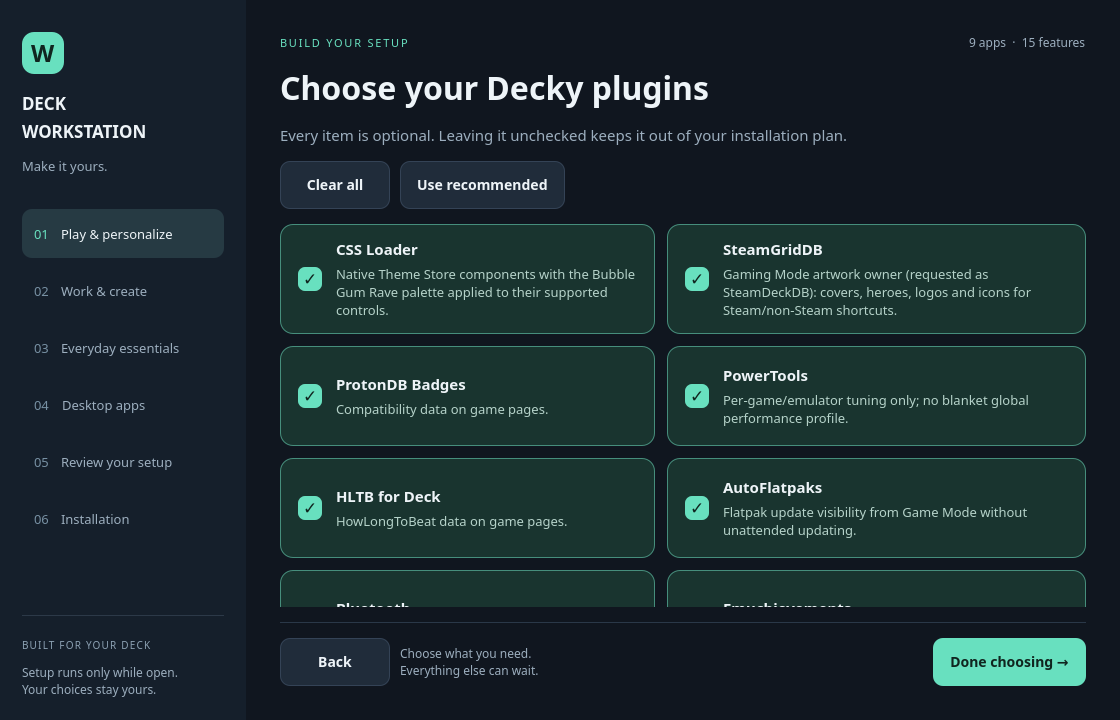
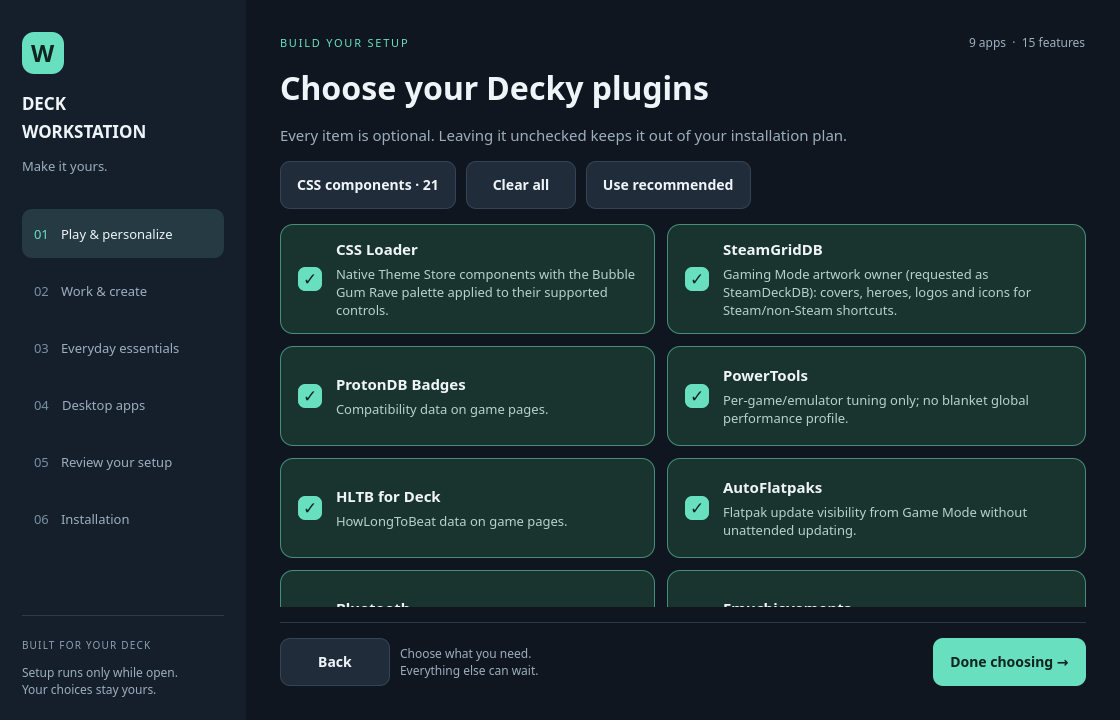
Make CSS Loader theme components individually optional

Changed region(s): [[0.25, 0.2139, 0.6875, 0.3056]]

diff --git a/lib/deckctl/ui/Setup.qml b/lib/deckctl/ui/Setup.qml
@@ -29,6 +29,7 @@ ApplicationWindow {
     property string detailPage: ""
     property var selectedLaunchers: []
     property var selectedPlugins: []
+    property var selectedCss: []
     property var chosen: []
     property var selectedApps: []
     property var progress: ({running: false, modules: [], operation: null})
@@ -65,16 +66,18 @@ ApplicationWindow {
         xhr.send(payload === null ? null : JSON.stringify(payload))
     }
     function toggle(key, isApp) {
-        var values = (detailPage === "launchers" ? selectedLaunchers : detailPage === "plugins" ? selectedPlugins : isApp ? selectedApps : chosen).slice()
+        var values = (detailPage === "css" ? selectedCss : detailPage === "launchers" ? selectedLaunchers : detailPage === "plugins" ? selectedPlugins : isApp ? selectedApps : chosen).slice()
         var index = values.indexOf(key)
         if (index < 0) values.push(key); else values.splice(index, 1)
-        if (detailPage === "launchers") selectedLaunchers = values
+        if (detailPage === "css") selectedCss = values
+        else if (detailPage === "launchers") selectedLaunchers = values
         else if (detailPage === "plugins") selectedPlugins = values
         else if (isApp) selectedApps = values; else chosen = values
         saved = false; dirty = true; notice = ""; problem = ""
     }
     function detailPreset(defaults) {
-        if (detailPage === "plugins") selectedPlugins = defaults ? data.defaultPlugins.slice() : []
+        if (detailPage === "css") selectedCss = defaults ? data.defaultCss.slice() : []
+        else if (detailPage === "plugins") selectedPlugins = defaults ? data.defaultPlugins.slice() : []
         else selectedLaunchers = defaults ? data.launchers.map(function(x) { return x.id }) : []
         saved = false; dirty = true
     }
@@ -103,11 +106,12 @@ ApplicationWindow {
         selectedApps = full ? data.apps.map(function(app) { return app.id }) : []
         selectedLaunchers = full ? data.launchers.map(function(x) { return x.id }) : []
         selectedPlugins = full ? data.defaultPlugins.slice() : []
+        selectedCss = full ? data.defaultCss.slice() : []
         saved = false; dirty = true; notice = full ? "Full workstation selected. Make it your own below." : "Starting small. Add only what you need."
     }
     function savePlan(install) {
         busy = true; problem = ""
-        request("save", {modules: chosen, apps: selectedApps, launchers: selectedLaunchers, plugins: selectedPlugins}, function(result) {
+        request("save", {modules: chosen, apps: selectedApps, launchers: selectedLaunchers, plugins: selectedPlugins, css: selectedCss}, function(result) {
             saved = true; dirty = false; busy = false; notice = "Your setup plan is saved."
             if (install) startOperation("install")
             else if (data.planOnly) window.close()
@@ -141,7 +145,7 @@ ApplicationWindow {
         for (var i=0; i<args.length; i++) if (args[i].indexOf("http://127.0.0.1:") === 0) endpoint = args[i]
         if (!endpoint) { problem = "Open this app with deckctl setup customize."; return }
         request("catalog", null, function(result) {
-            data = result; selectedLaunchers = result.selectedLaunchers.slice(); selectedPlugins = result.selectedPlugins.slice(); chosen = result.modules.slice(); selectedApps = result.selectedApps.slice(); loaded = true
+            data = result; selectedCss = result.selectedCss.slice(); selectedLaunchers = result.selectedLaunchers.slice(); selectedPlugins = result.selectedPlugins.slice(); chosen = result.modules.slice(); selectedApps = result.selectedApps.slice(); loaded = true
         })
     }
     Timer {
@@ -256,7 +260,7 @@ ApplicationWindow {
                 Item { Layout.fillWidth: true }
                 TextLabel { text: window.selectedApps.length + " apps  ·  " + Math.max(0,window.allModules().length-1) + " features"; color: window.muted; font.pixelSize: 12 }
             }
-            TextLabel { text: window.detailPage === "launchers" ? "Choose your launchers" : window.detailPage === "plugins" ? "Choose your Decky plugins" : window.stageNames[window.stage]; font.pixelSize: window.width < 950 ? 27 : 32; font.weight: Font.Bold; Layout.fillWidth: true }
+            TextLabel { text: window.detailPage === "css" ? "Choose your CSS components" : window.detailPage === "launchers" ? "Choose your launchers" : window.detailPage === "plugins" ? "Choose your Decky plugins" : window.stageNames[window.stage]; font.pixelSize: window.width < 950 ? 27 : 32; font.weight: Font.Bold; Layout.fillWidth: true }
             TextLabel { text: window.detailPage ? "Every item is optional. Leaving it unchecked keeps it out of your installation plan." : window.stageDescriptions[window.stage]; color: window.muted; font.pixelSize: 15; Layout.fillWidth: true }
             RowLayout {
                 visible: window.stage < 4 && !window.detailPage; spacing: 10; Layout.bottomMargin: 1
@@ -269,8 +273,9 @@ ApplicationWindow {
                 visible: window.stage === 0
                 Action { visible: !window.detailPage && window.chosen.indexOf("gaming") >= 0; text: "Choose launchers · " + window.selectedLaunchers.length; onClicked: window.detailPage = "launchers" }
                 Action { visible: !window.detailPage && window.chosen.indexOf("decky") >= 0; text: "Choose plugins · " + window.selectedPlugins.length; onClicked: window.detailPage = "plugins" }
+                Action { visible: window.detailPage === "plugins" && window.selectedPlugins.indexOf("SDH-CssLoader") >= 0; text: "CSS components · " + window.selectedCss.length; onClicked: window.detailPage = "css" }
                 Action { visible: !!window.detailPage; text: "Clear all"; onClicked: window.detailPreset(false) }
-                Action { visible: !!window.detailPage; text: window.detailPage === "plugins" ? "Use recommended" : "Select all"; onClicked: window.detailPreset(true) }
+                Action { visible: !!window.detailPage; text: window.detailPage !== "launchers" ? "Use recommended" : "Select all"; onClicked: window.detailPreset(true) }
             }
             Rectangle {
                 visible: !!window.problem || !!window.notice
@@ -289,12 +294,12 @@ ApplicationWindow {
                         visible: window.stage < 4
                         Layout.fillWidth: true; columns: window.width < 1000 ? 1 : 2; columnSpacing: 12; rowSpacing: 12
                         Repeater {
-                            model: window.detailPage === "launchers" ? window.data.launchers : window.detailPage === "plugins" ? window.data.plugins : window.stage < 3 ? (window.data.groups[window.stage] || {modules:[]}).modules : (window.stage === 3 ? window.data.apps : [])
+                            model: window.detailPage === "css" ? window.data.css : window.detailPage === "launchers" ? window.data.launchers : window.detailPage === "plugins" ? window.data.plugins : window.stage < 3 ? (window.data.groups[window.stage] || {modules:[]}).modules : (window.stage === 3 ? window.data.apps : [])
                             delegate: ChoiceCard {
                                 required property var modelData
                                 Layout.fillWidth: true
                                 heading: modelData.name; detail: modelData.summary
-                                selected: (window.detailPage === "launchers" ? window.selectedLaunchers : window.detailPage === "plugins" ? window.selectedPlugins : window.stage === 3 ? window.selectedApps : window.chosen).indexOf(modelData.id) >= 0
+                                selected: (window.detailPage === "css" ? window.selectedCss : window.detailPage === "launchers" ? window.selectedLaunchers : window.detailPage === "plugins" ? window.selectedPlugins : window.stage === 3 ? window.selectedApps : window.chosen).indexOf(modelData.id) >= 0
                                 onClicked: window.toggle(modelData.id, window.stage === 3)
                             }
                         }
@@ -331,6 +336,8 @@ ApplicationWindow {
                         TextLabel { visible: window.allModules().indexOf("gaming") >= 0; text: window.selectedNames(window.data.launchers, window.selectedLaunchers); Layout.fillWidth: true }
                         TextLabel { text: "DECKY PLUGINS"; visible: window.allModules().indexOf("decky") >= 0; color: window.muted; font.pixelSize: 11 }
                         TextLabel { visible: window.allModules().indexOf("decky") >= 0; text: window.selectedNames(window.data.plugins, window.selectedPlugins); Layout.fillWidth: true }
+                        TextLabel { visible: window.allModules().indexOf("decky") >= 0 && window.selectedPlugins.indexOf("SDH-CssLoader") >= 0; text: "CSS COMPONENTS"; color: window.muted; font.pixelSize: 11 }
+                        TextLabel { visible: window.allModules().indexOf("decky") >= 0 && window.selectedPlugins.indexOf("SDH-CssLoader") >= 0; text: window.selectedNames(window.data.css, window.selectedCss); Layout.fillWidth: true }
                         TextLabel { text: "Some features download software or models and open their own setup prompts. Account sign-in and device pairing happen afterward. You can skip those stages."; color: window.muted; Layout.fillWidth: true; font.pixelSize: 13; Layout.topMargin: 10 }
                     }
                     ColumnLayout {
@@ -363,7 +370,7 @@ ApplicationWindow {
             Rectangle { Layout.fillWidth: true; height: 1; color: "#2a3848" }
             RowLayout {
                 Layout.fillWidth: true; spacing: 10
-                Action { text: "Back"; visible: !!window.detailPage || (window.stage > 0 && window.stage < 5); enabled: !window.busy; onClicked: {if (window.detailPage) window.detailPage=""; else window.stage--; window.problem=""} }
+                Action { text: "Back"; visible: !!window.detailPage || (window.stage > 0 && window.stage < 5); enabled: !window.busy; onClicked: {if (window.detailPage) window.detailPage=window.detailPage === "css" ? "plugins" : ""; else window.stage--; window.problem=""} }
                 TextLabel { visible: window.stage < 4; text: "Choose what you need.\nEverything else can wait."; font.pixelSize: 12; color: window.muted; Layout.fillWidth: true }
                 Item { visible: window.stage >= 4; Layout.fillWidth: true }
                 Action { text: "Save for later"; visible: window.stage === 4 && !window.data.planOnly; enabled: !window.busy; onClicked: window.savePlan(false) }
@@ -372,7 +379,7 @@ ApplicationWindow {
                     text: window.detailPage ? "Done choosing →" : window.stage < 3 ? "Continue →" : (window.stage === 3 ? "Review setup →" : (window.stage === 4 ? (window.data.planOnly ? "Save & continue" : "Save & install") : "Install / retry"))
                     enabled: window.loaded && !window.busy && !window.progress.running && (window.stage !== 5 || !window.data.planOnly)
                     onClicked: {
-                        if (window.detailPage) window.detailPage = ""
+                        if (window.detailPage) window.detailPage = window.detailPage === "css" ? "plugins" : ""
                         else if (window.stage < 4) { window.stage++; window.notice="" }
                         else if (window.stage === 4) window.savePlan(!window.data.planOnly)
                         else window.startOperation("install")

diff --git a/lib/deckctl/setup_builder.py b/lib/deckctl/setup_builder.py
@@ -5,7 +5,7 @@ import os
 import shutil
 import subprocess
 import sys
-from . import apps, core, gaming_options
+from . import apps, core, gaming_options, css_stack
 
 
 def catalog():
@@ -101,7 +101,8 @@ def plugin_items():
             for key, item in items.items()]
 
 
-def save_plan(modules, selected_apps, launchers=None, plugins=None):
+def save_plan(modules, selected_apps, launchers=None, plugins=None, css=None):
+    if css is not None: css=css_stack.validate_selection(css)
     if launchers is not None: launchers=gaming_options.validate(launchers)
     if plugins is not None:
         known={item['id'] for item in plugin_items()}
@@ -110,6 +111,7 @@ def save_plan(modules, selected_apps, launchers=None, plugins=None):
     files=[core.CONFIG_HOME/'modules.json', core.CONFIG_HOME/'apps.json']
     if launchers is not None: files.append(core.CONFIG_HOME/'gaming-selection.json')
     if plugins is not None: files.append(core._decky_selection_path())
+    if css is not None: files.append(core.CONFIG_HOME/'css-selection.json')
     previous=[p.read_bytes() if p.exists() else None for p in files]
     try:
         save_modules(modules)
@@ -124,6 +126,8 @@ def save_plan(modules, selected_apps, launchers=None, plugins=None):
                          selected_folders=sorted(set(plugins)),
                          selected_plugins=[items.get(x,{}).get('name',x) for x in sorted(set(plugins))])
             core.save_json(core._decky_selection_path(), state)
+        if css is not None:
+            core.save_json(core.CONFIG_HOME/'css-selection.json', {'selected': css})
     except (OSError,ValueError):
         for path,old in zip(files,previous):
             if old is None: path.unlink(missing_ok=True)
@@ -143,16 +147,18 @@ def configure_ui():
         for group in data['groups']:
             roots=_terminal_checklist(group['title'],group['description'],group['modules'],roots)
         selected=_terminal_checklist('Desktop apps','Optional apps; existing installations are kept.',_app_items(),selected)
-        launchers=set(gaming_options.selection()); plugins=set(core._decky_selected_folders())
+        launchers=set(gaming_options.selection()); plugins=set(core._decky_selected_folders()); css=set(css_stack.selection())
         if 'gaming' in roots:
             launchers=_terminal_checklist('Launchers and tools','Choose each item independently.',gaming_options.ITEMS,launchers)
         if 'decky' in roots:
             plugins=_terminal_checklist('Decky plugins','Every plugin is optional.',plugin_items(),plugins)
+        if 'decky' in roots and 'SDH-CssLoader' in plugins:
+            css=_terminal_checklist('CSS Loader components','Every component is optional.',css_stack.selection_items(),css)
         normalized=_app_module_roots(roots,selected)
         print(_summary(normalized,sorted(selected),set(normalized)-roots-{'base'}))
         if input('Save this plan? [y/N] ').strip().lower() not in ('y','yes'):
             return 0
-        save_plan(normalized,selected,launchers,plugins)
+        save_plan(normalized,selected,launchers,plugins,css)
         print('Plan saved. Run deckctl apply, then deckctl setup run.')
         return 0
     except (KeyboardInterrupt,EOFError):

diff --git a/lib/deckctl/css_stack.py b/lib/deckctl/css_stack.py
@@ -32,11 +32,37 @@ class CSSError(RuntimeError):
     pass
 
 
-def _stack():
+def _stack(unfiltered=False):
     data = json.loads(STACK_PATH.read_text())
     if data.get('schema_version') != 3 or not data.get('required'):
         raise CSSError('Invalid CSS stack manifest')
+    if not unfiltered:
+        names = selection()
+        items = data['required'] + data['recommended'] + data.get('optional', [])
+        data['required'] = [item for item in items if item['name'] in names]
+        data['recommended'] = []
     return data
+
+
+def selection():
+    data = _stack(unfiltered=True)
+    state = core.load_json(core.CONFIG_HOME/'css-selection.json', None)
+    defaults = [item['name'] for item in data['required'] + data['recommended']]
+    return validate_selection(state['selected']) if state is not None else defaults
+
+
+def validate_selection(values):
+    data = _stack(unfiltered=True)
+    known = {item['name'] for category in ('required', 'recommended', 'optional') for item in data.get(category, [])}
+    if not isinstance(values, (list, set, tuple)) or any(not isinstance(x,str) or x not in known for x in values):
+        raise ValueError('Invalid CSS Loader component selection')
+    return sorted(set(values))
+
+
+def selection_items():
+    data = _stack(unfiltered=True)
+    return [{'id': item['name'], 'name': item['name'], 'summary': item.get('reason', '')}
+            for category in ('required', 'recommended', 'optional') for item in data.get(category, [])]
 
 
 def _read(path):
@@ -313,13 +339,18 @@ def _migrate_legacy():
 
 
 def _manifest_hash():
-    return hashlib.sha256(STACK_PATH.read_bytes()).hexdigest()
+    raw = STACK_PATH.read_bytes()
+    if (core.CONFIG_HOME/'css-selection.json').exists():
+        raw += json.dumps(sorted(selection())).encode()
+    return hashlib.sha256(raw).hexdigest()
 
 
 def readiness():
     """Read-only, persisted-state verification; never treats a receipt alone as proof."""
     try:
         stack = _stack()
+        if not stack['required'] and not stack['recommended']:
+            return True, 'No CSS components selected; existing themes are unchanged'
         if not core._decky_loader_present():
             return False, 'Decky Loader is missing'
         plugin = core._decky_installed_plugins().get('SDH-CssLoader', {})

diff --git a/tests/contract/test_setup_window.py b/tests/contract/test_setup_window.py
@@ -6,7 +6,7 @@ from pathlib import Path
 from unittest.mock import patch, Mock
 import sys
 sys.path.insert(0, str(Path(__file__).resolve().parents[2]/'lib'))
-from deckctl import core, apps, setup_builder, setup_window, gaming_options, provisioning
+from deckctl import core, apps, setup_builder, setup_window, gaming_options, provisioning, css_stack
 
 
 class SetupWindow(unittest.TestCase):
@@ -70,6 +70,25 @@ class SetupWindow(unittest.TestCase):
             with self.assertRaises(OSError):
                 setup_builder.save_plan(['gaming'], [], ['heroic'], [])
         self.assertEqual(before, {p.name: p.read_bytes() for p in core.CONFIG_HOME.iterdir()})
+
+    def test_css_selection_filters_defaults_and_accepts_optional_components(self):
+        stack=css_stack._stack(unfiltered=True)
+        optional=stack['optional'][0]['name']
+        setup_builder.save_plan(['decky'], [], [], ['SDH-CssLoader'], [optional])
+        effective=css_stack._stack()
+        self.assertEqual([item['name'] for item in effective['required']], [optional])
+        self.assertEqual(effective['recommended'], [])
+        first_hash=css_stack._manifest_hash()
+        setup_builder.save_plan(['decky'], [], [], ['SDH-CssLoader'], [])
+        self.assertNotEqual(first_hash, css_stack._manifest_hash())
+        with patch.object(css_stack, '_backend_session', side_effect=AssertionError('No backend should start')):
+            self.assertTrue(css_stack.readiness()[0])
+            self.assertEqual(css_stack.apply(), 0)
+
+    def test_unknown_css_component_rejected_before_saving(self):
+        with self.assertRaises(ValueError):
+            setup_builder.save_plan(['decky'], [], [], [], ['unknown-theme'])
+        self.assertFalse(core.CONFIG_HOME.exists())
 
     def test_plan_only_never_starts_installer(self):
         session = setup_window.Session(plan_only=True)

diff --git a/lib/deckctl/setup_window.py b/lib/deckctl/setup_window.py
@@ -8,7 +8,7 @@ import shutil
 import subprocess
 import threading
 from http.server import BaseHTTPRequestHandler, HTTPServer
-from . import apps, core, setup_builder, gaming_options
+from . import apps, core, setup_builder, gaming_options, css_stack
 
 
 APP_DESCRIPTIONS = {
@@ -41,6 +41,8 @@ class Session:
                 'launchers': gaming_options.ITEMS, 'selectedLaunchers': gaming_options.selection(),
                 'plugins': setup_builder.plugin_items(), 'selectedPlugins': sorted(core._decky_selected_folders()),
                 'defaultPlugins': core._decky_default_selection(),
+                'css': css_stack.selection_items(), 'selectedCss': css_stack.selection(),
+                'defaultCss': [item['name'] for category in ('required','recommended') for item in css_stack._stack(unfiltered=True)[category]],
                 'dependencies': {key: item[1].get('depends_on', []) for key, item in manifests.items()},
                 'planOnly': self.plan_only}
 
@@ -55,7 +57,7 @@ class Session:
                 or any(not isinstance(x, str) or x not in apps.catalog() for x in selected)):
             raise ValueError('Invalid feature or app selection. Reopen setup and try again.')
         normalized = setup_builder._app_module_roots(roots, selected)
-        setup_builder.save_plan(normalized, selected, payload.get("launchers"), payload.get("plugins"))
+        setup_builder.save_plan(normalized, selected, payload.get("launchers"), payload.get("plugins"), payload.get("css"))
         self.selected = core.topo(normalized)
         return {'saved': True, 'modules': self.selected}
 

diff --git a/tests/integration/test_setup_ui.py b/tests/integration/test_setup_ui.py
@@ -11,7 +11,7 @@ from unittest.mock import patch
 
 ROOT = Path(__file__).resolve().parents[2]
 sys.path.insert(0, str(ROOT/'lib'))
-from deckctl import apps, core, setup_window, gaming_options
+from deckctl import apps, core, setup_window, gaming_options, css_stack
 
 
 @unittest.skipUnless(shutil.which('qml6') or shutil.which('qml'), 'Qt Quick runtime unavailable')
@@ -38,6 +38,10 @@ UI.Setup {
                 app.toggle("heroic", false)
                 app.detailPage = "plugins"
                 app.detailPreset(false)
+                app.toggle("SDH-CssLoader", false)
+                app.detailPage = "css"
+                app.detailPreset(false)
+                app.toggle("Round", false)
                 app.stage = 4
                 app.savePlan(false)
             } else if (app.saved) {
@@ -58,7 +62,8 @@ UI.Setup {
                 self.assertEqual(setup_window.launch(), 0)
                 self.assertEqual(apps.selection(), ['zed'])
                 self.assertEqual(gaming_options.selection(), ['heroic'])
-                self.assertEqual(core._decky_selected_folders(), set())
+                self.assertEqual(core._decky_selected_folders(), {"SDH-CssLoader"})
+                self.assertEqual(css_stack.selection(), ["Round"])
                 self.assertIn('dev', core.enabled_modules())
                 self.assertFalse((base/'state').exists())
 

diff --git a/README.md b/README.md
@@ -882,3 +882,5 @@ Discord and Slack are also available: `deckctl apps install discord slack`.
 The terminal module includes Ghostty, tmux, Neovim and OpenCode. `deckctl ai-workspace install` configures user-space Ollama and downloads a small local coding model; `deckctl ai-workspace open` runs a temporary server for a local coding session. See [AI workspace](modules/ai-workspace/README.md).
 
 Launcher and Decky choices are individual: open **Choose launchers** or **Choose plugins** in Play & personalize. Every plugin can be unchecked; choosing a category does not require every item. Review lists your exact selections before saving or installing.
+
+Selecting CSS Loader also exposes **CSS components**: choose any subset of the curated theme components, including optional layouts, or clear all to install only the plugin. Apply and verification use that exact selection. Existing themes remain installed and retain their settings when deselected; disable any previously enabled themes in CSS Loader if desired. Additional Store themes and individual style controls remain available in CSS Loader itself.

diff --git a/docs/RELEASE-0.2.34.md b/docs/RELEASE-0.2.34.md
@@ -17,3 +17,5 @@ data; installation requires the explicit Save & install action.
 See the [setup builder guide](../README.md#choose-only-the-stages-you-want).
 
 - Individual launcher/tool and Decky plugin choices, including clear-all. Saved choices govern provisioning and guided setup; explicit plugin opt-outs survive future manifest updates.
+
+Selecting CSS Loader also exposes **CSS components**: choose any subset of the curated theme components, including optional layouts, or clear all to install only the plugin. Apply and verification use that exact selection. Existing themes remain installed and retain their settings when deselected; disable any previously enabled themes in CSS Loader if desired. Additional Store themes and individual style controls remain available in CSS Loader itself.

diff --git a/modules/decky/README.md b/modules/decky/README.md
@@ -199,3 +199,5 @@ upstream plugin.json files:
 These are install-only additions. Pair devices and choose personal music/tab
 preferences through their normal interfaces; provisioning does not overwrite
 those settings. Audio Loader remains available alongside Game Theme Music.
+
+Selecting CSS Loader also exposes **CSS components**: choose any subset of the curated theme components, including optional layouts, or clear all to install only the plugin. Apply and verification use that exact selection. Existing themes remain installed and retain their settings when deselected; disable any previously enabled themes in CSS Loader if desired. Additional Store themes and individual style controls remain available in CSS Loader itself.
